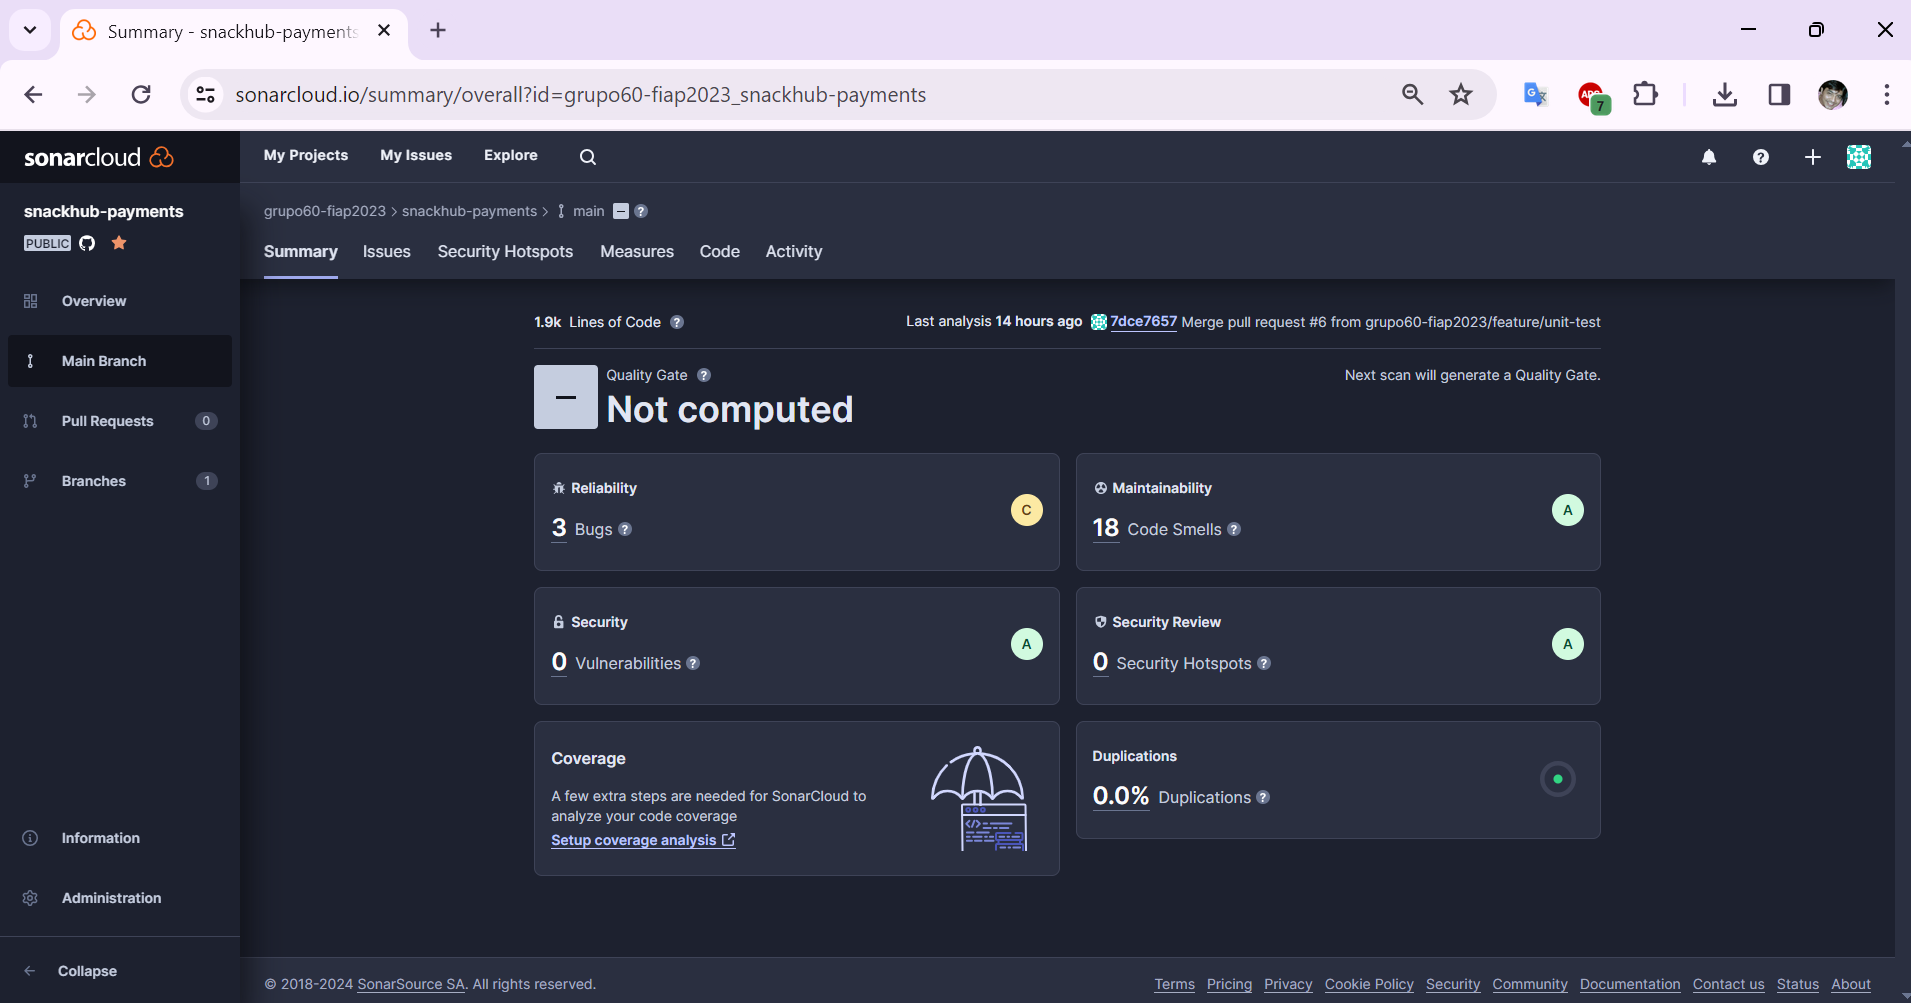
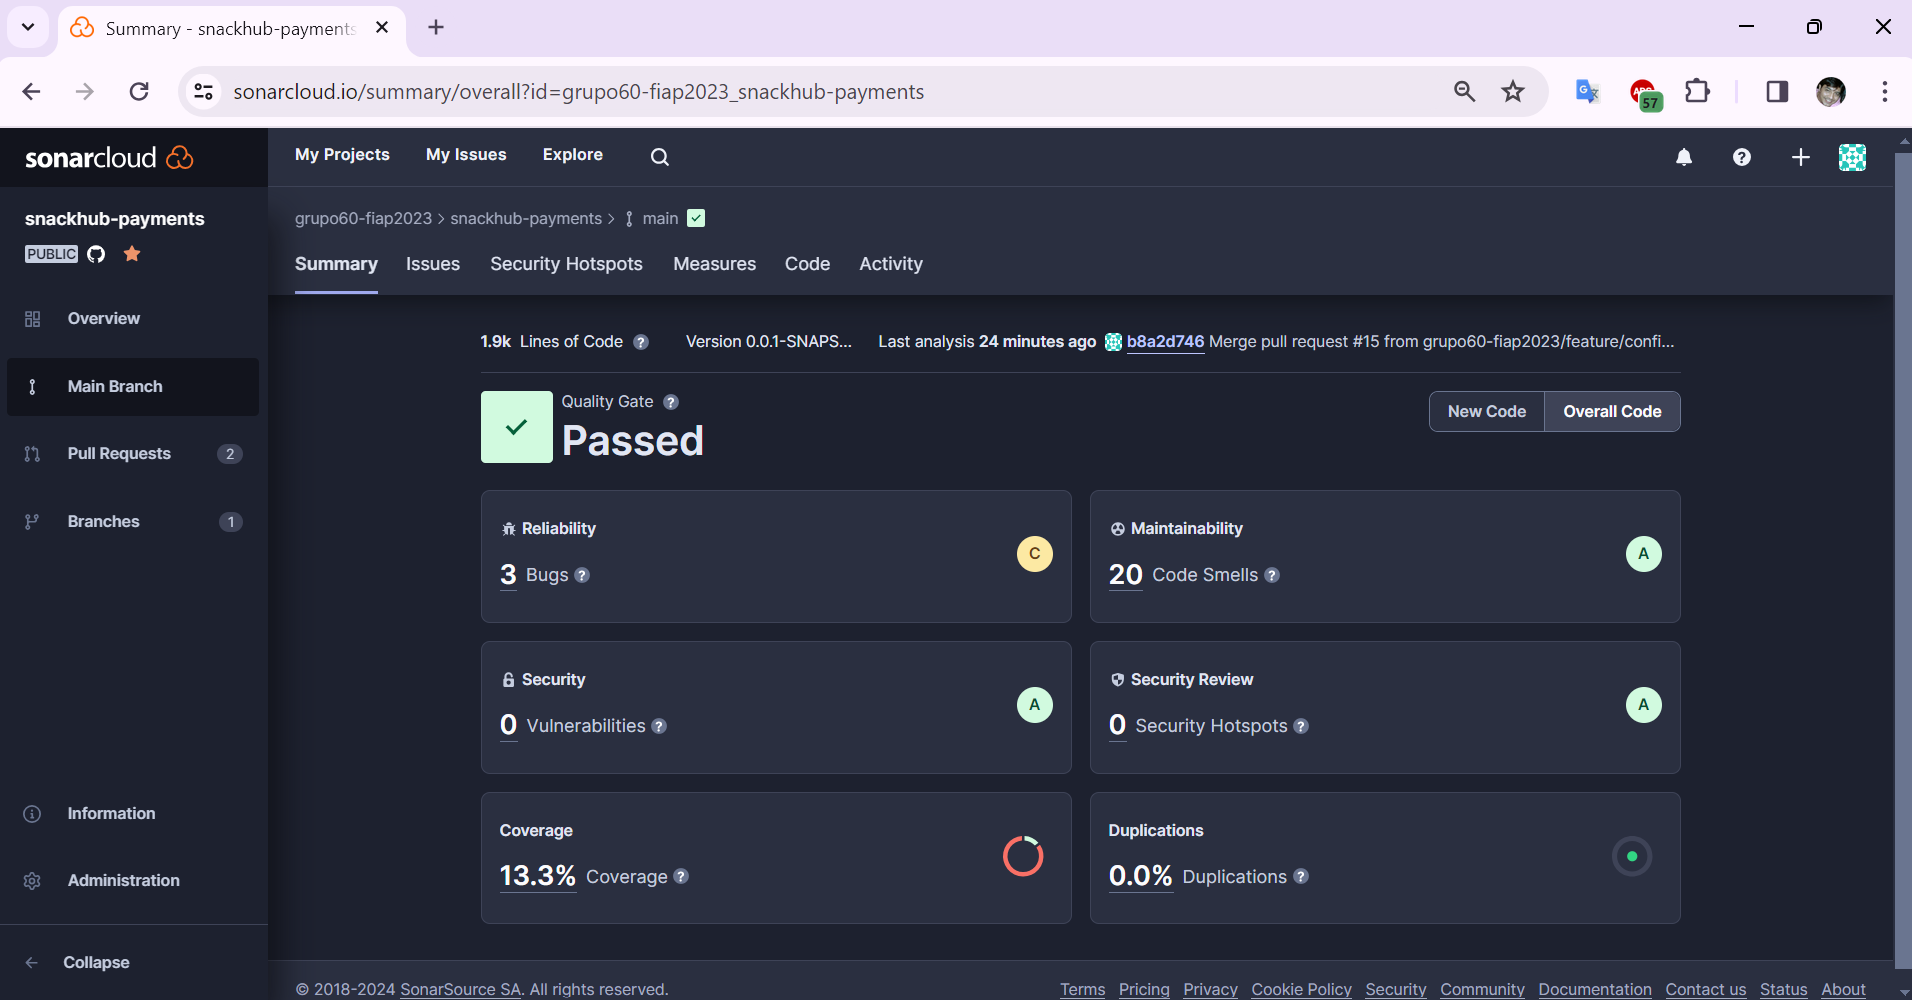
ajuste readme

diff --git a/README.md b/README.md
@@ -73,7 +73,7 @@ No SonarCloud é avaliado:
 - Linhas duplicadas
 - Conbertura do fonte por testes
 
-Como pode ser visto na imagem e no link a Cobertura hoje do serviço está em 0%(ajustar config).
+Como pode ser visto na imagem e no link a Cobertura hoje do serviço está em 13%(Ciente do ajuste na config do report de coverage).
 
 
 ## Testes Implementados
@@ -105,9 +105,12 @@ O último step da pipeline realiza de forma automatizada o deploy para a AWS.
 
 Serviço no ar:
 
-![img.png](readmefiles/service.png)
+![img.png](readmefiles/app-ar.png)
 
 # Proteção Repositório
 ![img.png](readmefiles/branchprotect1.png)
 
 ![img_1.png](readmefiles/branchprotect2.png)
+
+# Merge Bloqueado main protegida
+![img_1.png](readmefiles/merge-block.png)
